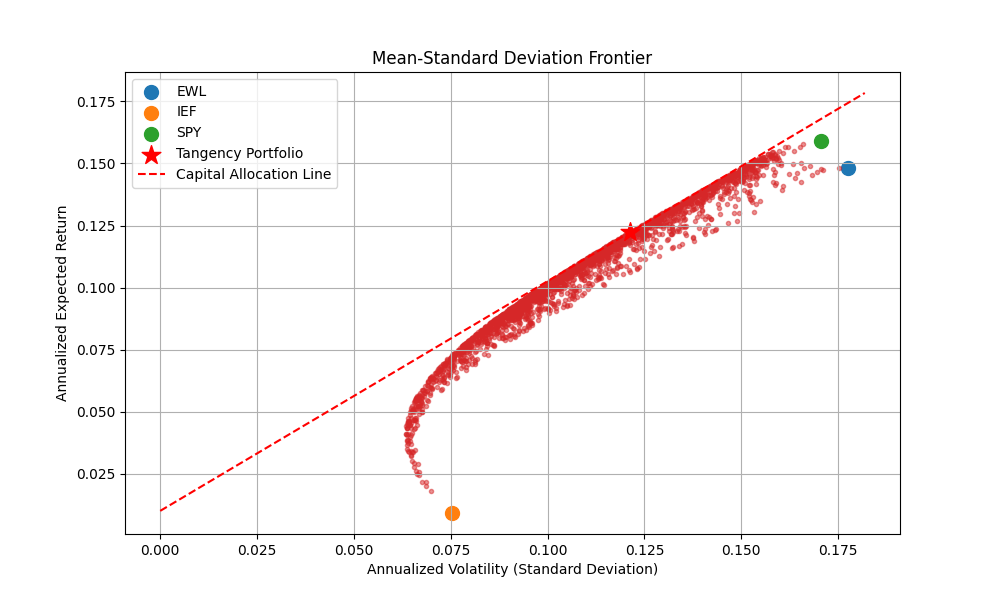
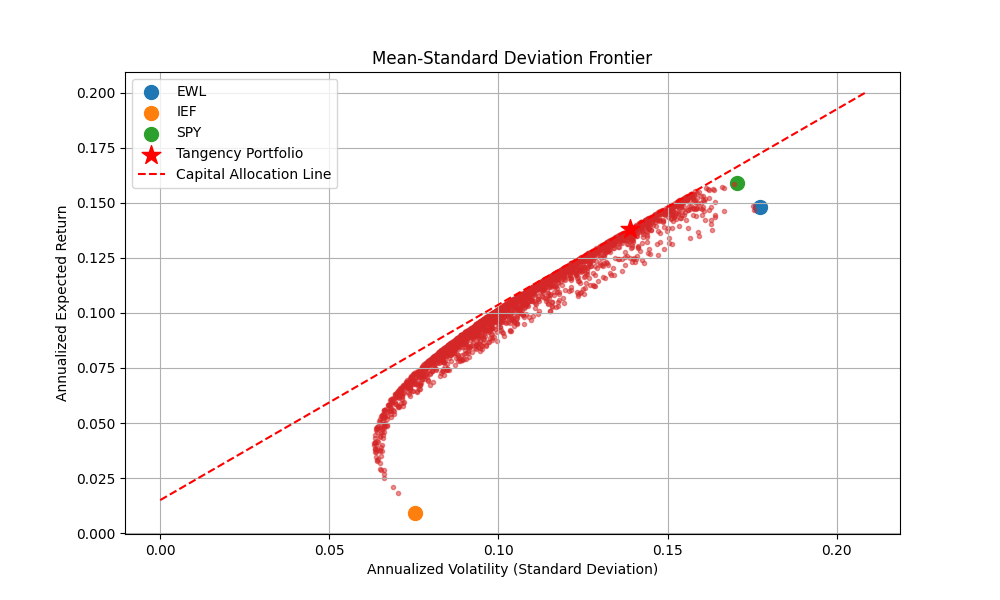
Your message

diff --git a/hw2_solutions.py b/hw2_solutions.py
@@ -48,7 +48,7 @@ def calculate_annualized_volatility(df):
     annualized_volatility = weekly_volatility * np.sqrt(52)
     return annualized_volatility
 
-def calculate_sharpe_ratio(annualized_return, annualized_volatility, risk_free_rate=0.01):
+def calculate_sharpe_ratio(annualized_return, annualized_volatility, risk_free_rate=0.015):
     """
     Calculates the Sharpe ratio of an ETF.
 
@@ -69,7 +69,7 @@ def calculate_tangency_portfolio(returns):
     """
     cov_matrix = returns.cov() * 52
     expected_returns = (returns.mean() + 1)**52 - 1
-    risk_free_rate = 0.01
+    risk_free_rate = 0.015
 
     def objective(weights):
         return -(expected_returns.dot(weights) - risk_free_rate) / np.sqrt(weights.T.dot(cov_matrix).dot(weights))
@@ -94,7 +94,7 @@ def plot_frontier(returns, tangency_portfolio):
     """
     expected_returns = (returns.mean() + 1)**52 - 1
     cov_matrix = returns.cov() * 52
-    risk_free_rate = 0.01
+    risk_free_rate = 0.015
 
     fig, ax = plt.subplots(figsize=(10, 6))
 
@@ -132,7 +132,7 @@ def optimize_for_target_volatility(tangency_portfolio, target_volatility=0.15):
     Calculates the optimal weights for a target volatility and the implied risk-aversion coefficient.
     """
     tangency_weights, tangency_mean, _, tangency_std, _ = tangency_portfolio
-    risk_free_rate = 0.01
+    risk_free_rate = 0.015
 
     # Calculate the weight in the tangency portfolio
     weight_in_tangency = target_volatility / tangency_std
